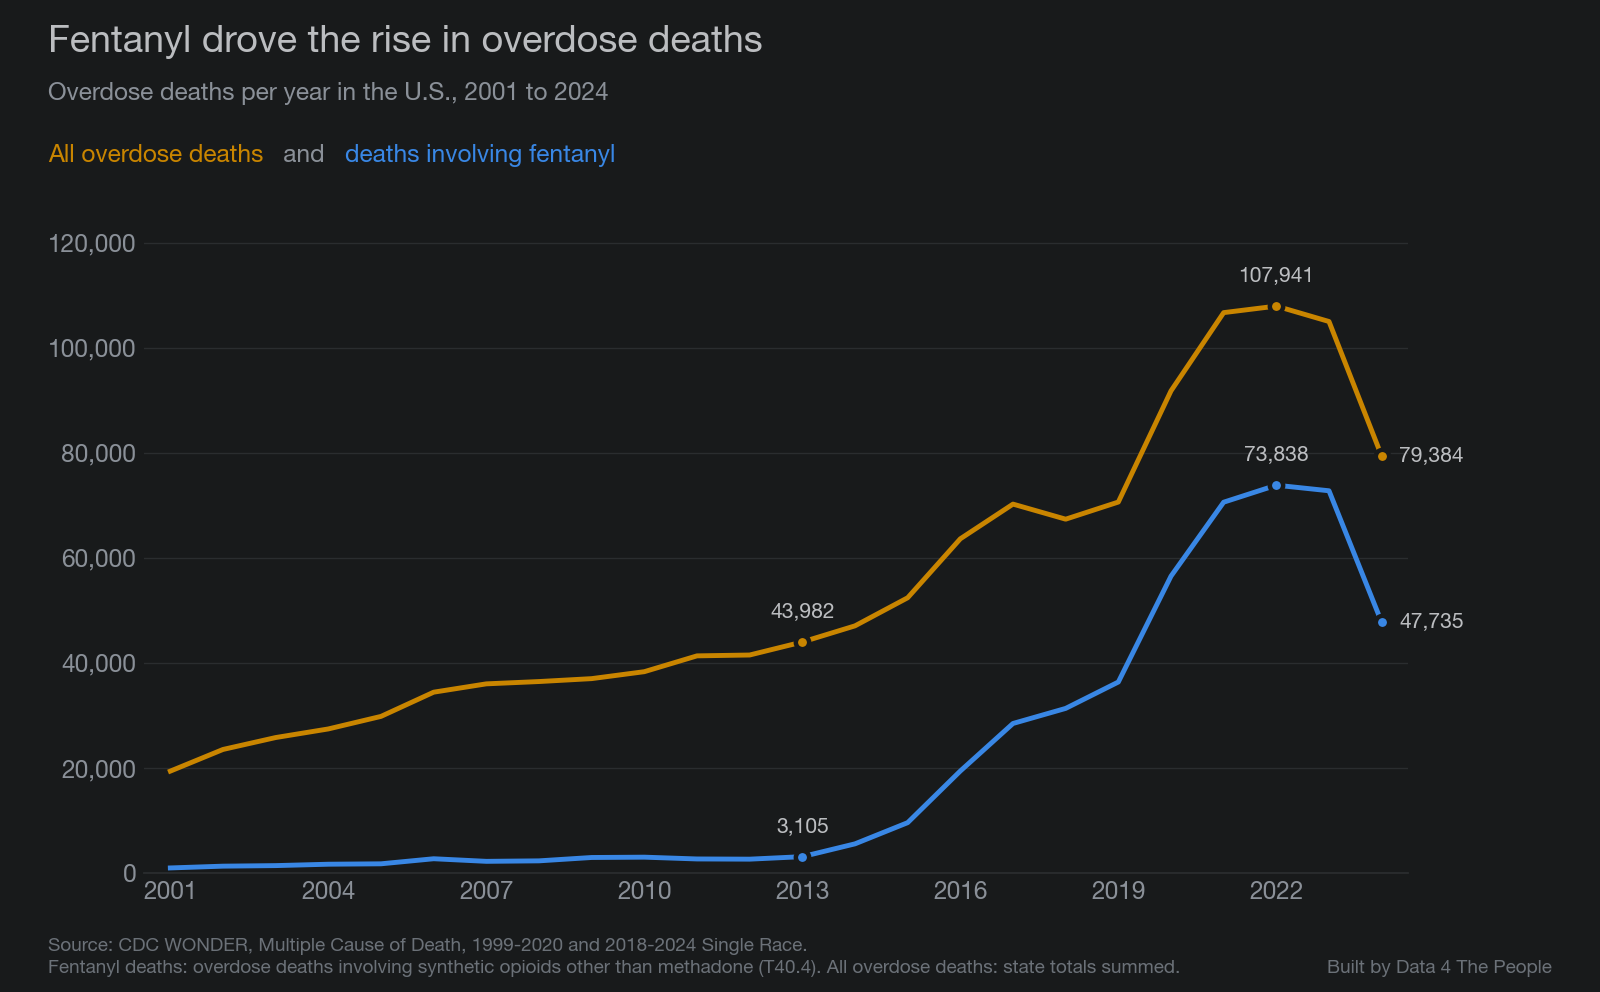
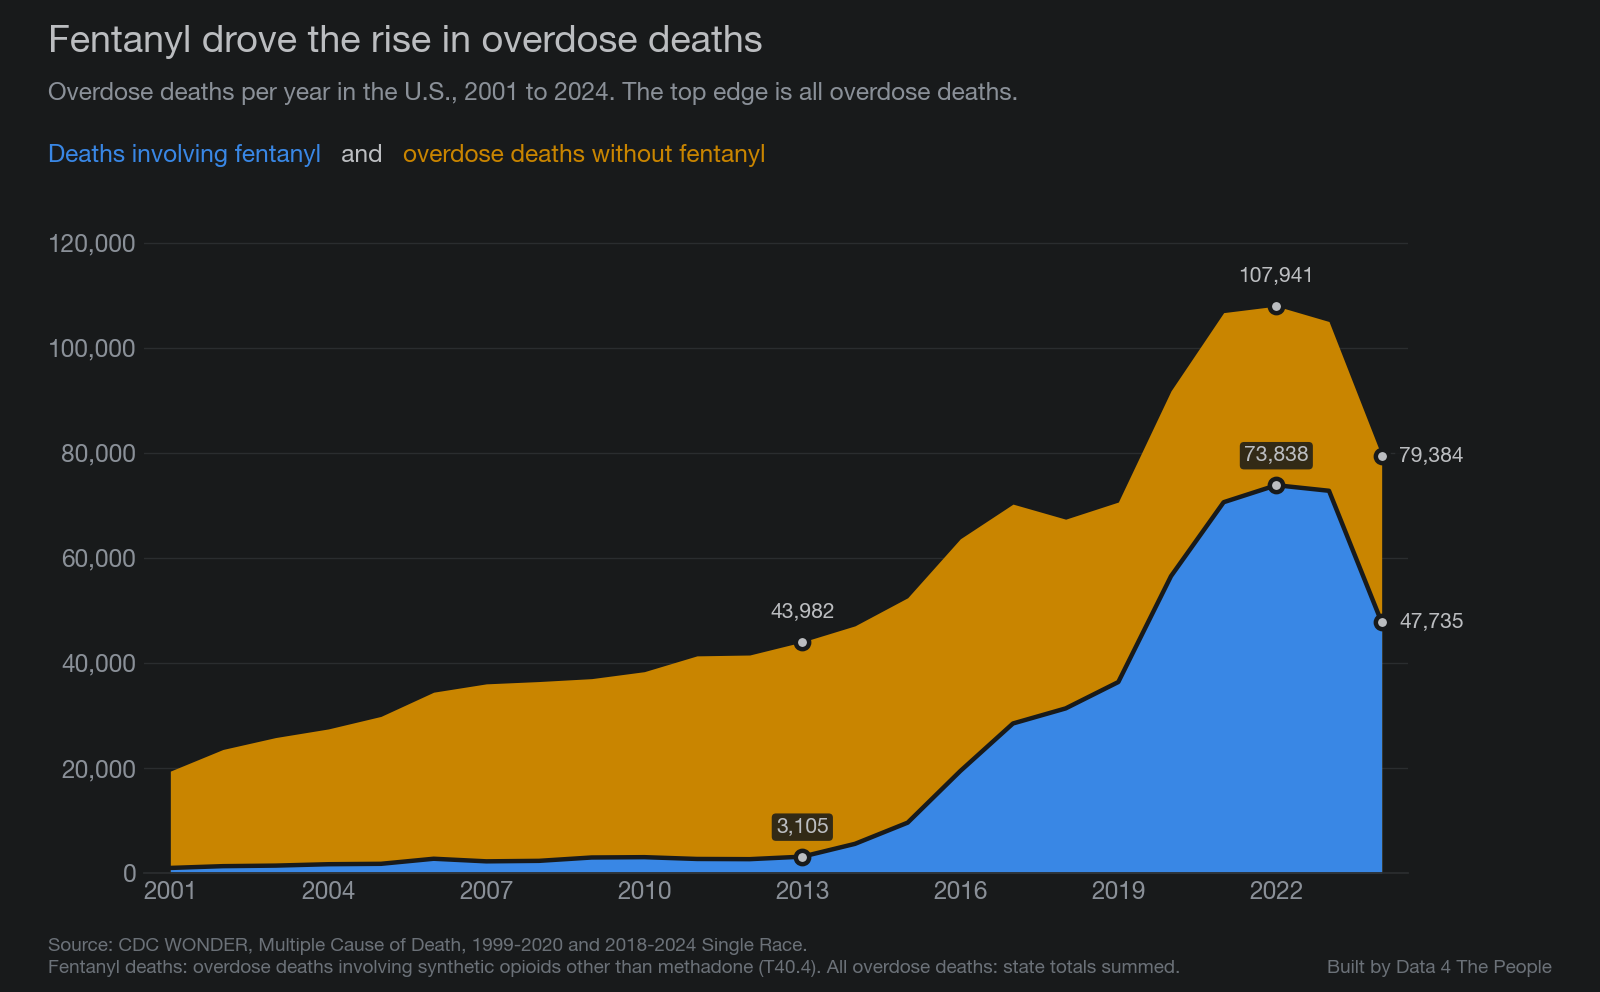
fentanyl-deaths-by-county: chart 1 as an area chart

diff --git a/scripts/post_charts.py b/scripts/post_charts.py
@@ -97,23 +97,28 @@ def chart_overdose():
     assert yrs == list(range(2001, Y[-1] + 1)), "overdose export should cover 2001 to the last map year"
     fig, ax = plt.subplots(figsize=(10, 6.2))
     fig.subplots_adjust(left=0.09, right=0.88, top=0.76, bottom=0.12)
-    ax.plot(yrs, [tot[y] for y in yrs], color=YELLOW, lw=2.2)
-    ax.plot(yrs, [fen[y] for y in yrs], color=BLUE, lw=2.2)
+    # Two published series drawn as overlapping areas: all overdose deaths behind, deaths involving fentanyl
+    # in front. The yellow band left showing is overdose deaths without fentanyl; nothing is subtracted.
+    T, F = [tot[y] for y in yrs], [fen[y] for y in yrs]
+    ax.fill_between(yrs, 0, T, color=YELLOW, lw=0)
+    ax.fill_between(yrs, 0, F, color=BLUE, lw=0)
+    ax.plot(yrs, F, color=SURFACE, lw=2)          # 2px surface gap between the two fills
     for y in (2013, 2022, 2024):
         for s, c in ((tot, YELLOW), (fen, BLUE)):
-            ax.plot(y, s[y], "o", ms=6, color=c, mec=SURFACE, mew=2)
+            ax.plot(y, s[y], "o", ms=6, color=INK, mec=SURFACE, mew=2)
             last = y == yrs[-1]
             ax.annotate(f"{s[y]:,}", (y, s[y]), xytext=(8, 0) if last else (0, 9), textcoords="offset points",
-                        ha="left" if last else "center", va="center" if last else "bottom", fontsize=9.5, color=INK)
+                        ha="left" if last else "center", va="center" if last else "bottom", fontsize=9.5,
+                        color=INK, bbox=dict(boxstyle="round,pad=0.2", fc=SURFACE, ec="none", alpha=0.85))
     ax.set_ylim(0, max(tot.values()) * 1.12)
     ax.set_xlim(yrs[0] - 0.5, yrs[-1] + 0.5)
     ax.yaxis.set_major_formatter(comma)
     ax.grid(axis="y"); ax.set_axisbelow(True); ax.tick_params(length=0); ax.spines["left"].set_visible(False)
     ax.set_xticks(range(yrs[0], yrs[-1] + 1, 3))
     titleblock(fig, "Fentanyl drove the rise in overdose deaths",
-               f"Overdose deaths per year in the U.S., {yrs[0]} to {yrs[-1]}")
-    words(fig, 0.03, 0.855, [("All overdose deaths", YELLOW), ("   and   ", INK_DIM),
-                              ("deaths involving fentanyl", BLUE)])
+               f"Overdose deaths per year in the U.S., {yrs[0]} to {yrs[-1]}. The top edge is all overdose deaths.")
+    words(fig, 0.03, 0.855, [("Deaths involving fentanyl", BLUE), ("   and   ", INK),
+                              ("overdose deaths without fentanyl", YELLOW)])
     credit(fig, SRC + "\n" + FEN_NOTE + " All overdose deaths: state totals summed.")
     save(fig, "01-overdose-vs-fentanyl.png")
 

diff --git a/posts/fentanyl-deaths-by-county/POST.md b/posts/fentanyl-deaths-by-county/POST.md
@@ -20,9 +20,9 @@ dividers: false
 
 Earlier this week we published a map of substance use treatment in every state. While building it, we looked at which drugs were behind the rise in overdose deaths. One answer stood out. From 2013 to 2022, yearly overdose deaths in the U.S. went up by 63,959, from 43,982 to 107,941. Over the same years, deaths involving fentanyl went up by 70,733, from 3,105 to 73,838. Overdose deaths that did not involve fentanyl went down by 6,774. In those years, the whole rise was in deaths involving fentanyl.
 
-Over a longer span, 2001 to 2022, deaths involving fentanyl account for 82% of the rise in overdose deaths. Fentanyl was involved in 7% of overdose deaths in 2013, 51% in 2019 and 68% in 2022. When overdose deaths finally fell in 2024, fentanyl was the story again: overdose deaths fell by 25,623, and deaths involving fentanyl fell by 25,041, or 98% of the drop. The chart below shows all overdose deaths each year next to deaths involving fentanyl.
+Over a longer span, 2001 to 2022, deaths involving fentanyl account for 82% of the rise in overdose deaths. Fentanyl was involved in 7% of overdose deaths in 2013, 51% in 2019 and 68% in 2022. When overdose deaths finally fell in 2024, fentanyl was the story again: overdose deaths fell by 25,623, and deaths involving fentanyl fell by 25,041, or 98% of the drop. The chart below shows overdose deaths each year, split into deaths that involved fentanyl and deaths that did not.
 
-![Line chart of U.S. overdose deaths per year, 2001 to 2024. All overdose deaths rose from 43,982 in 2013 to 107,941 in 2022, then fell to 79,384 in 2024. Deaths involving fentanyl rose from 3,105 in 2013 to 73,838 in 2022, then fell to 47,735 in 2024.](images/01-overdose-vs-fentanyl.png)
+![Area chart of U.S. overdose deaths per year, 2001 to 2024, split into deaths involving fentanyl and deaths without it. All overdose deaths rose from 43,982 in 2013 to 107,941 in 2022, then fell to 79,384 in 2024. Deaths involving fentanyl rose from 3,105 in 2013 to 73,838 in 2022, then fell to 47,735 in 2024.](images/01-overdose-vs-fentanyl.png)
 *Source: CDC WONDER, Multiple Cause of Death.*
 
 On the drug side, fentanyl is the story, so that is where we started. This post has a map of fentanyl deaths in every U.S. county for every year from 1999 to 2024, a short history of how fentanyl got here, a look at the counties that stand out, and what is known, and not known, about why deaths fell in 2024.
